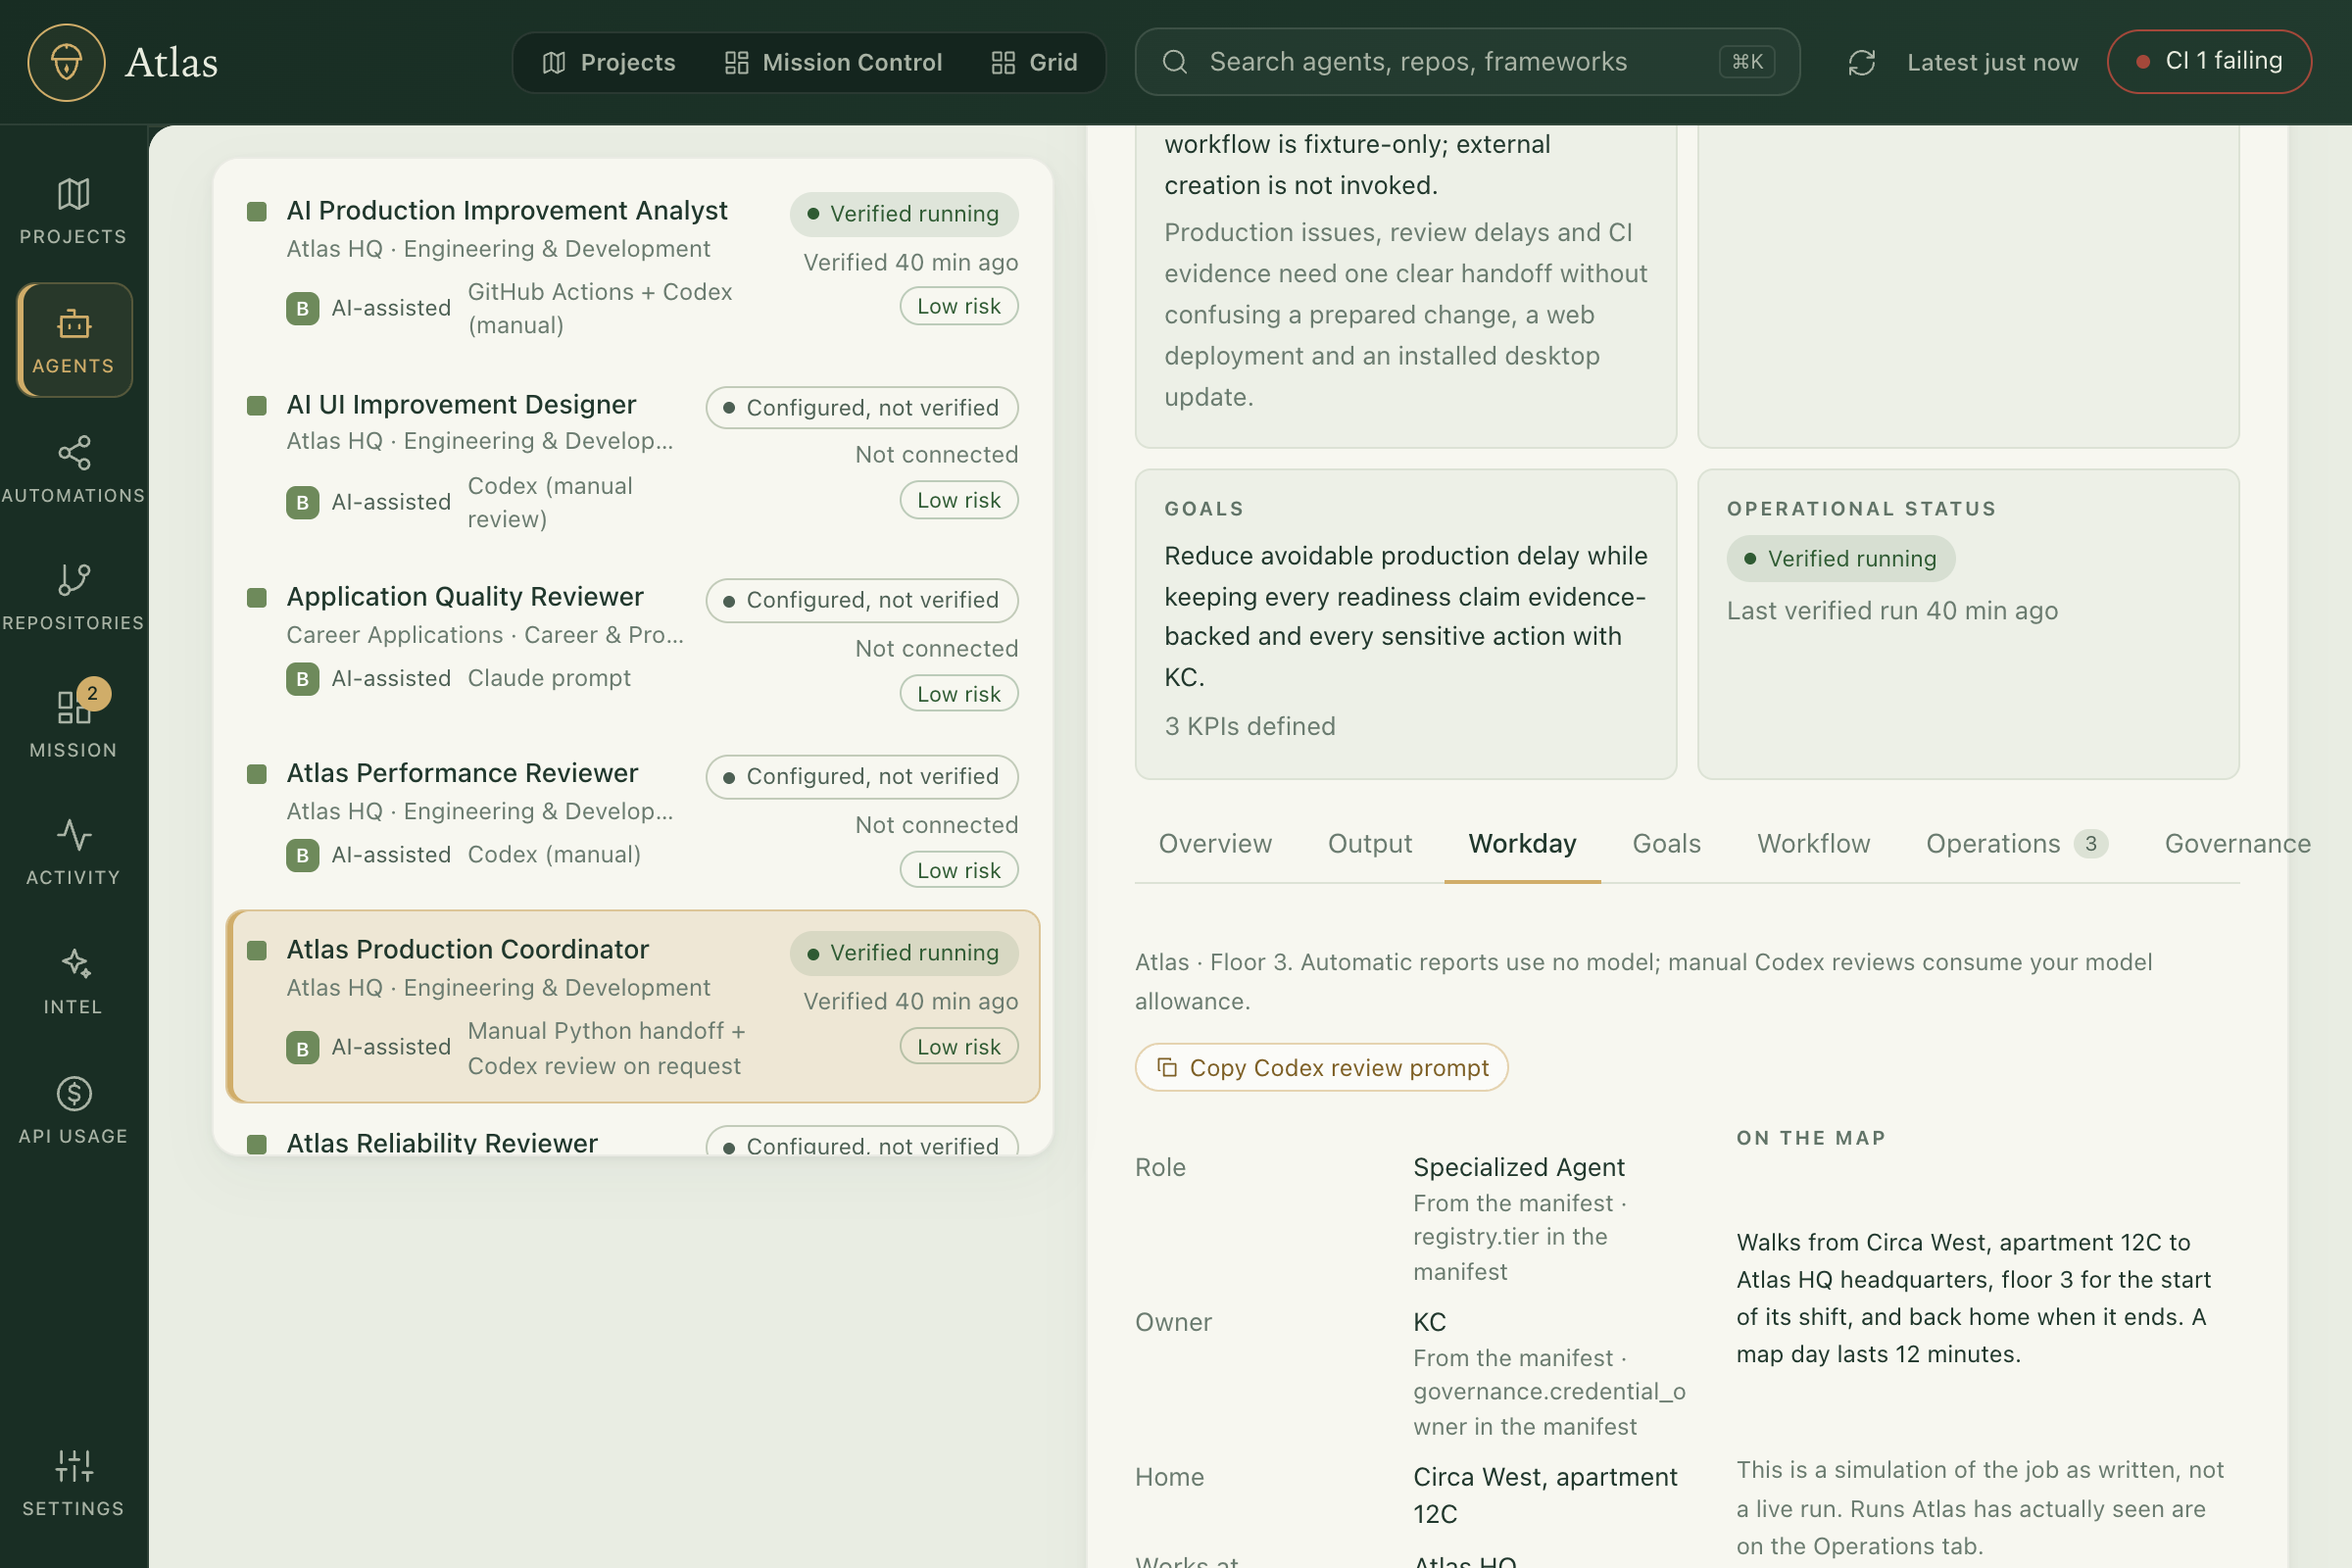
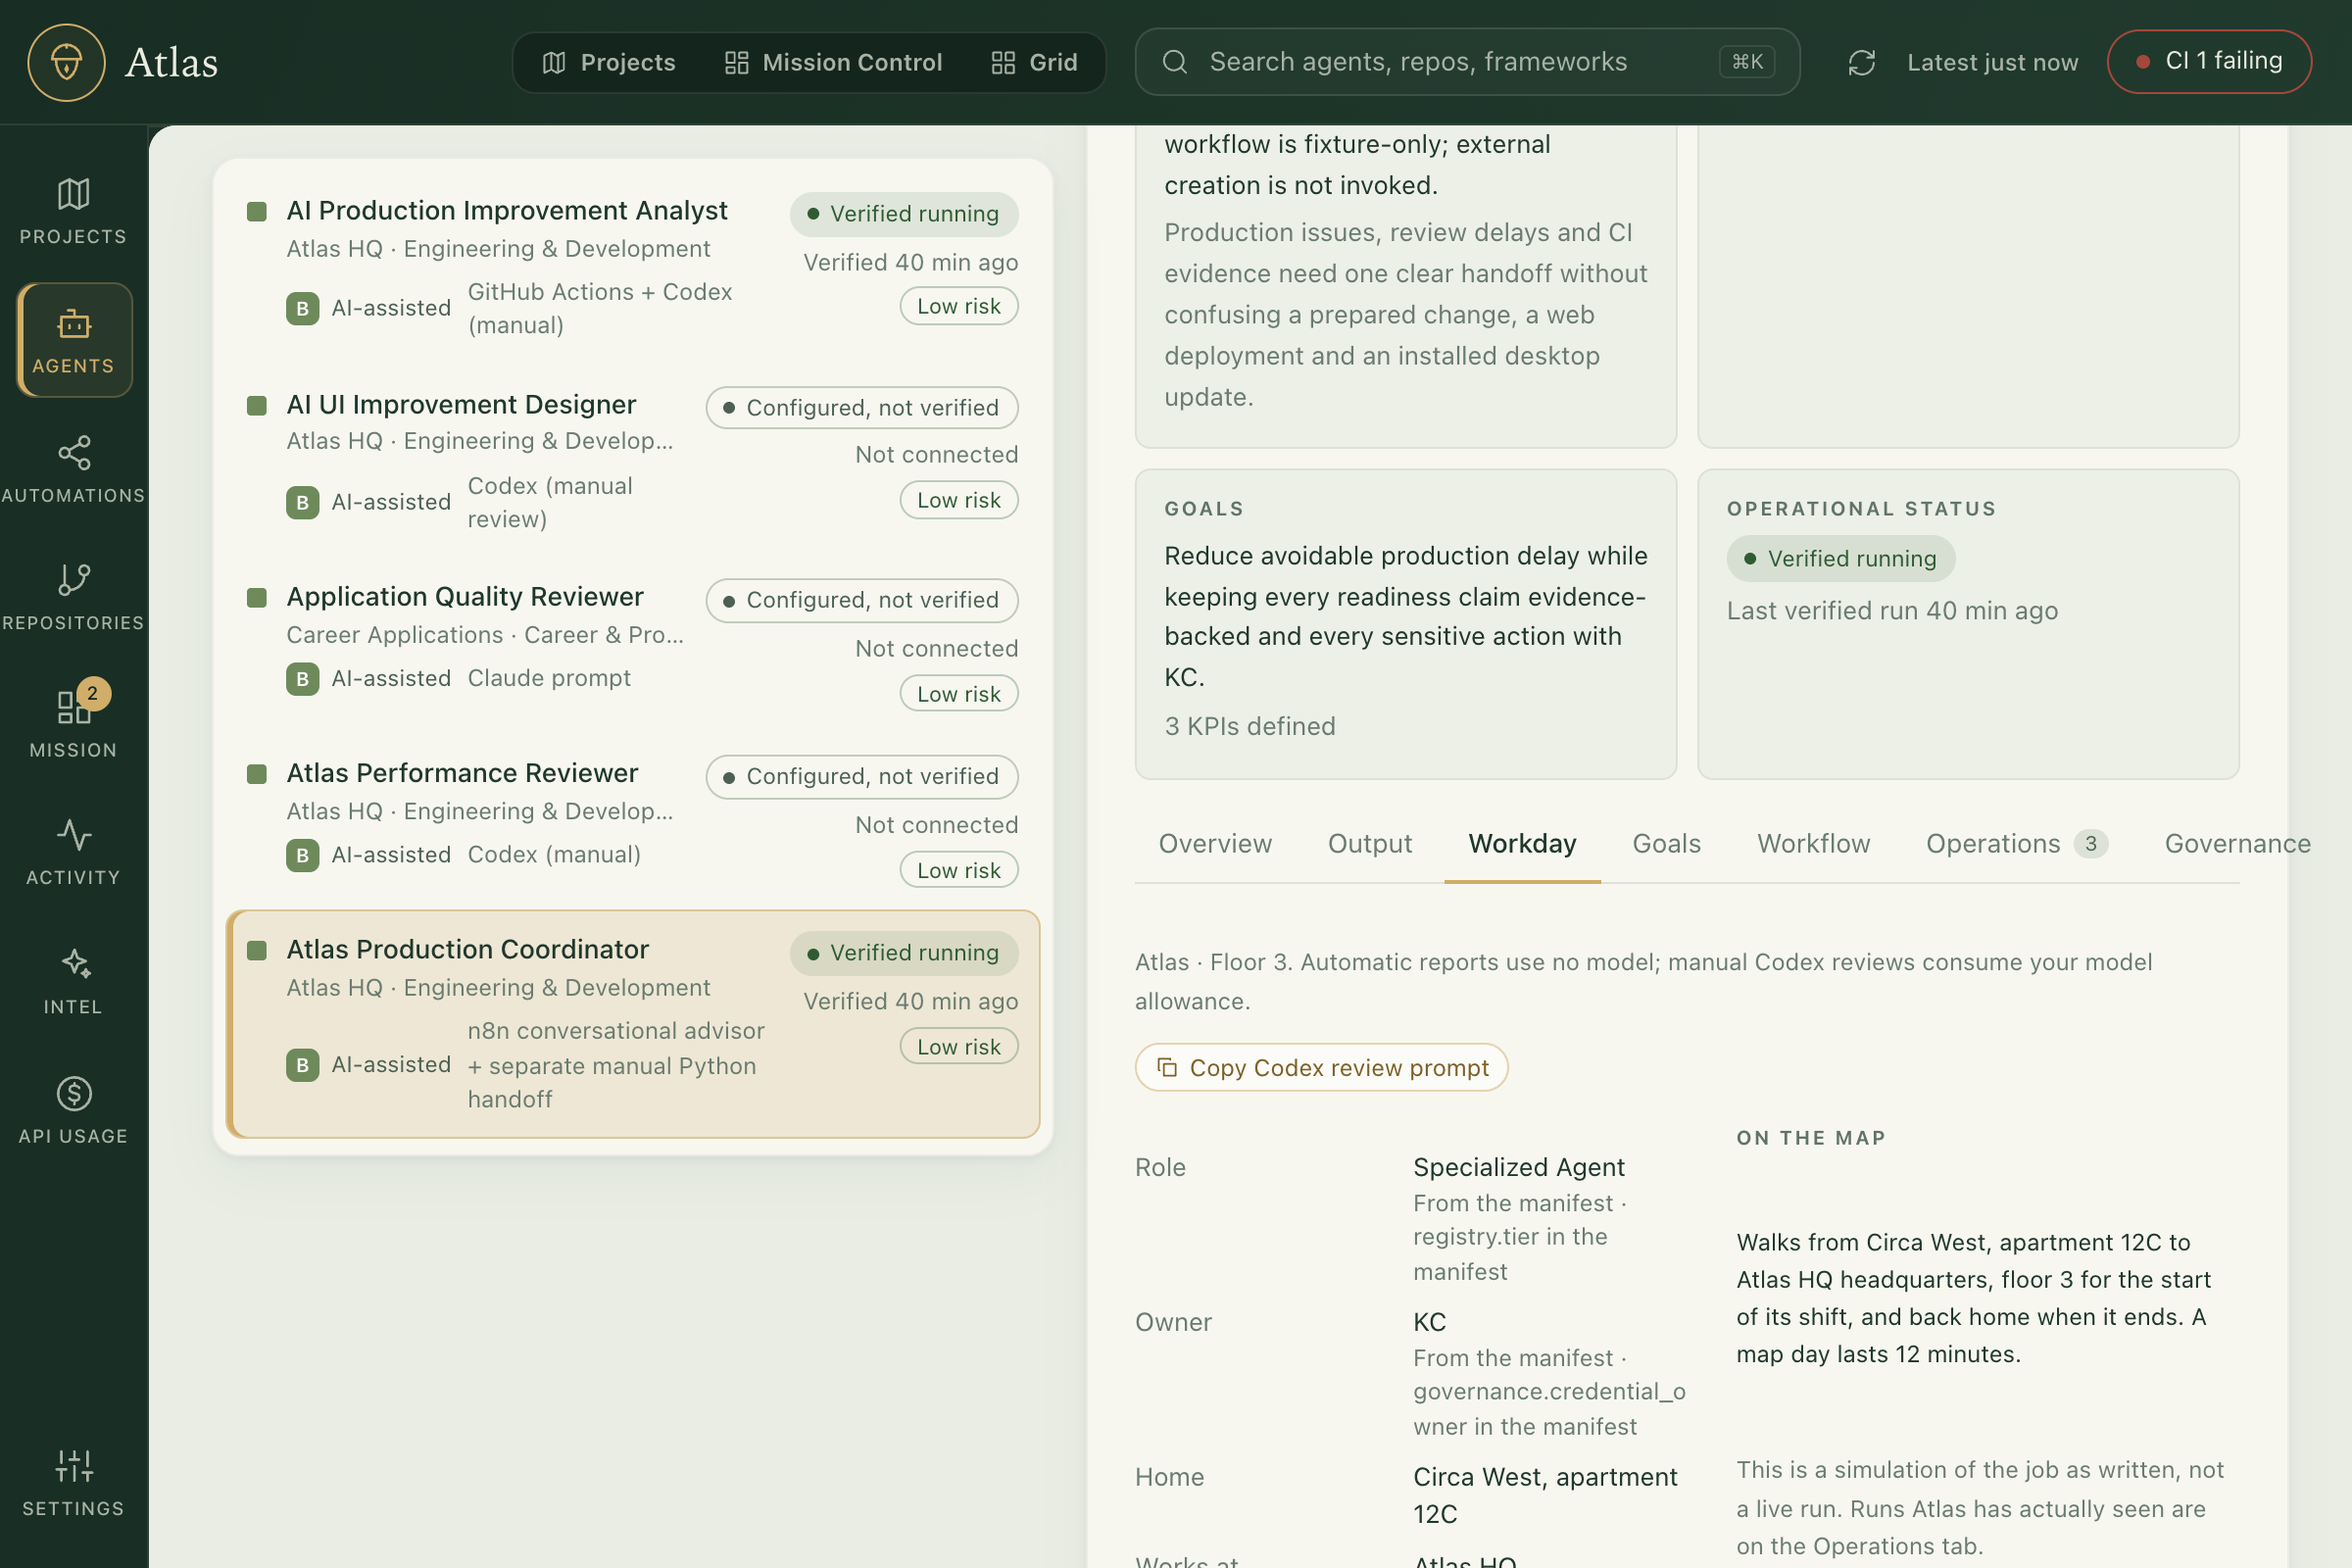
Link Coordinator profile to verified external advisor configuration

Changed region(s): [[0.0938, 0.6562, 0.4688, 0.75]]

diff --git a/src/registry/coordinatorN8n.test.ts b/src/registry/coordinatorN8n.test.ts
@@ -1,0 +1,16 @@
+import { expect, it } from 'vitest';
+import { catalog } from '../catalog';
+import { toProfile } from './profile';
+import { agentJobs } from '../catalog/agentJobs';
+
+it('links the existing Coordinator without replacing its fixture source or expanding permissions', () => {
+  const agent = catalog.agents.find(a => a.id === 'atlas-production-coordinator')!;
+  const p = toProfile(agent, catalog.projects.find(project => project.id === agent.projectId));
+  expect(p.docs.technical).toBe('https://khancam15.app.n8n.cloud/projects/qhAhqRqO8TimFtxs/agents/xwPwuboturejm9hz');
+  expect(agent.observe?.githubWorkflow).toBe('benjaire-production.yml');
+  expect(agent.permissions).toEqual(['Read supplied evidence','Produce a review report']);
+  expect(p.execution.triggerType).toBe('manual');
+  expect(p.responsibilities.limitations.join(' ')).toContain('absent from the published snapshot');
+  expect(p.cost.budget).toContain('absent from the inspected published snapshot');
+  expect(agentJobs(catalog).find(job => job.agentId === agent.id)?.work.label).toContain('floor 3');
+});

diff --git a/docs/coordinator-n8n.md b/docs/coordinator-n8n.md
@@ -1,0 +1,25 @@
+# Production Coordinator: external n8n advisor
+
+Inspected through the connected n8n account on 2026-11-05. The existing Atlas ID `atlas-production-coordinator` maps to **Atlas Release Coordinator**, agent `xwPwuboturejm9hz`, in n8n. Its two skills cover production triage/release planning and supplied-draft release handoffs. Atlas's Documentation tab links directly to the agent. No duplicate registration or workplace was added; it stays on Atlas HQ Floor 3.
+
+## Verified configuration versus execution
+
+The agent is published. Its draft passes n8n configuration/credential validation, has no ordinary tools, no custom reporting tool and no scheduled tasks. It can advise from supplied evidence and has native web search and observational memory enabled. Configuration validation is not a successful model run. No paid chat or tool execution was started in this review.
+
+The current published snapshot is `8d11cc79-0155-468e-8009-6ac8fea4f820`; the inspected draft is `96c2a71a-3663-43ad-8e06-2808d6bdfb89`. The draft configures a $1 monthly budget and $0.25 session cap. The published snapshot does not contain those guardrails. Do not describe the live agent as capped based on draft settings. No runtime budget enforcement test was performed.
+
+The existing `benjaire-production.yml` source remains unchanged: its runs are the separate supplied-draft fixture, not evidence that the n8n agent executed. Atlas does not yet receive its n8n output.
+
+## Three recommended improvements
+
+1. **Publish reviewed spending limits before use.** Review the draft's budget controls, validate the intended version, and separately authorize publication. Keep requests manual. Retain fail-closed limits; do not interpret a configured cap as runtime-tested accounting.
+2. **Reduce unnecessary context and search.** For supplied CI evidence, routine web search adds little value. Consider disabling search by default and observational memory for one-off reviews, while retaining prompt caching. Only enable external research for a specific missing fact. This is a recommendation; no settings were changed.
+3. **Add scoped reporting with preserved sources.** Emit actual execution IDs/status through a dedicated reporting identity, separately from a schema-validated recommendation report. Keep n8n advice, GitHub fixture results, approvals, web deployment and desktop installation distinct. The current telemetry selector prioritizes production reports over GitHub history; review that presentation before connecting a second source so existing evidence is not hidden.
+
+## Reporting connection still required
+
+No credential matching Atlas was returned by n8n's credential search. Credentials cannot be created through the available connector. An authorized operator must provision a reporting-only credential in n8n and its matching server-side identity; never paste the value into chat or a workflow export.
+
+Existing compact destination: `POST https://ai-ops-atlas.pages.dev/api/hooks/production`, Bearer auth. Server configuration `PRODUCTION_AGENT_KEYS` binds `atlas-production-coordinator` to `khaneilcampbell/ai-ops-atlas`. Confirm actual deployed setup before use. Never substitute the desktop sync key or an administrator credential.
+
+Only compact run metadata belongs there: agentId, eventId, kind, runId, status, optional durationMs/costUsd. Unknown cost is omitted. The same event ID is reused for retry; a later lifecycle update has a different event ID. A receiver 202 means accepted delivery, not successful business work. The current endpoint does not store full advice or artifacts; that needs a separate reviewed report schema. No credential attachment, token creation, publication, deployment or live reporting was performed.

diff --git a/CHANGELOG.md b/CHANGELOG.md
@@ -3,7 +3,7 @@
 What changed in Atlas, newest first. Every pull request that changes the app adds one line at the
 top of the list: `- YYYY-MM-DD · What changed, in plain words (#201)`. The newest five lines are
 shown in the Mac app's **Update available** button, so write them for KC, not for a reviewer.
-- 2026-11-05 · Defined the Production Coordinator’s responsibilities, review goals and request-based workday without activating new work (#252).
+- 2026-11-05 · Linked the Production Coordinator profile to its verified n8n advisor configuration, with clear reporting and live-budget gaps (#252).
 - 2026-11-04 · Atlas can now show your Product Lab's monthly brief (top pick, runners-up, scorecard, 30-day plan) in the Agents list and in the Marketing Agency, once you add one step in n8n that posts it. Atlas checks every score itself and never runs the agent (#249)
 - 2026-11-04 · Inside the Benjaire Marketing Agency, the six Product Lab agents now sit at desks in gold. Tap one, or its room label, to open the agent. The building panel lists them too (#248)
 - 2026-11-04 · Your n8n Benjaire Product Lab is now in the Agents list: the lead plus its five research roles, each assigned a room in the Benjaire Marketing Agency. They show as "Configured, not verified" until Atlas sees a real run (#247)
